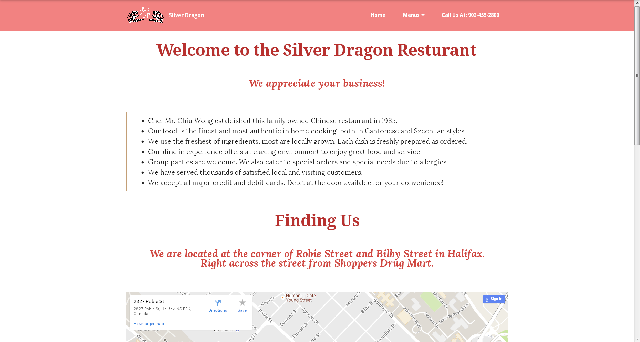
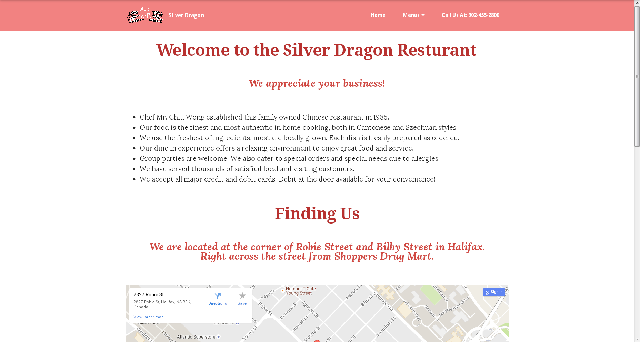
update
update

diff --git a/assets/mobirise/css/mbr-additional.css b/assets/mobirise/css/mbr-additional.css
@@ -44,7 +44,7 @@
 #ext_menu-1 .dropdown-item:hover,
 #ext_menu-1 .link:focus,
 #ext_menu-1 .dropdown-item:focus {
-  color: #c0a375;
+  color: #000000;
 }
 #ext_menu-1 .link[aria-expanded="true"],
 #ext_menu-1 .dropdown-menu {
@@ -71,11 +71,11 @@
 }
 #ext_menu-1 .bg-color.transparent.opened .link:hover,
 #ext_menu-1 .bg-color.transparent.opened .link:focus {
-  color: #c0a375;
+  color: #000000;
 }
 #ext_menu-1 .link[aria-expanded="true"],
 #ext_menu-1 .dropdown-item[aria-expanded="true"] {
-  color: #c0a375!important;
+  color: #000000!important;
 }
 #header3-3 .mbr-section-title,
 #header3-3 .mbr-section-subtitle {
@@ -93,10 +93,11 @@
 #header3-3 B {
   color: #d14841;
 }
-#content2-2 P {
-  font-family: 'Droid Sans', sans-serif;
+#content1-28 P {
+  font-family: 'Lora', serif;
+  font-size: 20px;
 }
-#content2-2 UL {
+#content1-28 UL {
   font-family: 'Lora', serif;
   font-size: 20px;
 }
@@ -196,7 +197,7 @@
 #ext_menu-7 .dropdown-item:hover,
 #ext_menu-7 .link:focus,
 #ext_menu-7 .dropdown-item:focus {
-  color: #c0a375;
+  color: #000000;
 }
 #ext_menu-7 .link[aria-expanded="true"],
 #ext_menu-7 .dropdown-menu {
@@ -223,11 +224,11 @@
 }
 #ext_menu-7 .bg-color.transparent.opened .link:hover,
 #ext_menu-7 .bg-color.transparent.opened .link:focus {
-  color: #c0a375;
+  color: #000000;
 }
 #ext_menu-7 .link[aria-expanded="true"],
 #ext_menu-7 .dropdown-item[aria-expanded="true"] {
-  color: #c0a375!important;
+  color: #000000!important;
 }
 #header3-8 .mbr-section-title,
 #header3-8 .mbr-section-subtitle {
@@ -297,7 +298,7 @@
 #ext_menu-13 .dropdown-item:hover,
 #ext_menu-13 .link:focus,
 #ext_menu-13 .dropdown-item:focus {
-  color: #c0a375;
+  color: #000000;
 }
 #ext_menu-13 .link[aria-expanded="true"],
 #ext_menu-13 .dropdown-menu {
@@ -324,11 +325,11 @@
 }
 #ext_menu-13 .bg-color.transparent.opened .link:hover,
 #ext_menu-13 .bg-color.transparent.opened .link:focus {
-  color: #c0a375;
+  color: #000000;
 }
 #ext_menu-13 .link[aria-expanded="true"],
 #ext_menu-13 .dropdown-item[aria-expanded="true"] {
-  color: #c0a375!important;
+  color: #000000!important;
 }
 #header3-14 .mbr-section-title,
 #header3-14 .mbr-section-subtitle {
@@ -402,7 +403,7 @@
 #ext_menu-13 .dropdown-item:hover,
 #ext_menu-13 .link:focus,
 #ext_menu-13 .dropdown-item:focus {
-  color: #c0a375;
+  color: #000000;
 }
 #ext_menu-13 .link[aria-expanded="true"],
 #ext_menu-13 .dropdown-menu {
@@ -429,11 +430,11 @@
 }
 #ext_menu-13 .bg-color.transparent.opened .link:hover,
 #ext_menu-13 .bg-color.transparent.opened .link:focus {
-  color: #c0a375;
+  color: #000000;
 }
 #ext_menu-13 .link[aria-expanded="true"],
 #ext_menu-13 .dropdown-item[aria-expanded="true"] {
-  color: #c0a375!important;
+  color: #000000!important;
 }
 #header3-14 .mbr-section-title,
 #header3-14 .mbr-section-subtitle {
@@ -507,7 +508,7 @@
 #ext_menu-17 .dropdown-item:hover,
 #ext_menu-17 .link:focus,
 #ext_menu-17 .dropdown-item:focus {
-  color: #c0a375;
+  color: #000000;
 }
 #ext_menu-17 .link[aria-expanded="true"],
 #ext_menu-17 .dropdown-menu {
@@ -534,11 +535,11 @@
 }
 #ext_menu-17 .bg-color.transparent.opened .link:hover,
 #ext_menu-17 .bg-color.transparent.opened .link:focus {
-  color: #c0a375;
+  color: #000000;
 }
 #ext_menu-17 .link[aria-expanded="true"],
 #ext_menu-17 .dropdown-item[aria-expanded="true"] {
-  color: #c0a375!important;
+  color: #000000!important;
 }
 #header3-18 .mbr-section-title,
 #header3-18 .mbr-section-subtitle {
@@ -608,7 +609,7 @@
 #ext_menu-21 .dropdown-item:hover,
 #ext_menu-21 .link:focus,
 #ext_menu-21 .dropdown-item:focus {
-  color: #c0a375;
+  color: #000000;
 }
 #ext_menu-21 .link[aria-expanded="true"],
 #ext_menu-21 .dropdown-menu {
@@ -635,11 +636,11 @@
 }
 #ext_menu-21 .bg-color.transparent.opened .link:hover,
 #ext_menu-21 .bg-color.transparent.opened .link:focus {
-  color: #c0a375;
+  color: #000000;
 }
 #ext_menu-21 .link[aria-expanded="true"],
 #ext_menu-21 .dropdown-item[aria-expanded="true"] {
-  color: #c0a375!important;
+  color: #000000!important;
 }
 #header3-22 .mbr-section-title,
 #header3-22 .mbr-section-subtitle {

diff --git a/index.html b/index.html
@@ -69,11 +69,11 @@
     </div>
 </section>
 
-<section class="mbr-section article mbr-section__container" id="content2-2" style="background-color: rgb(255, 255, 255); padding-top: 0px; padding-bottom: 40px;">
+<section class="mbr-section article mbr-section__container" id="content1-28" style="background-color: rgb(255, 255, 255); padding-top: 0px; padding-bottom: 40px;">
 
     <div class="container">
         <div class="row">
-            <div class="col-xs-12 lead"><blockquote><ul><li><span style="font-style: normal;">Chef Mr. Chiu Wong established this family owned Chinese restaurant in 1985.</span></li><li><span style="font-style: normal;">Our food is the finest and most authentic in home cooking, both in Cantonese and Szechuan styles.</span></li><li><span style="font-style: normal;">We use the freshest of ingredients, most are locally grown. Each dish is freshly prepared as ordered.</span></li><li><span style="font-style: normal;">Our dine in experience offers a relaxing environment to enjoy great food and service.</span></li><li><span style="font-style: normal;">Group parties are welcome. We also cater to special orders and special needs due to allergies.</span></li><li><span style="font-style: normal;">We have served thousands of satisfied local and visiting customers.</span></li><li><span style="font-style: normal;">We accept all major credit and debit cards. Debit at the door available for your convenience!</span></li></ul></blockquote></div>
+            <div class="col-xs-12 lead"><ul><li>Chef Mr. Chiu Wong established this family owned Chinese restaurant in 1985.</li><li>Our food is the finest and most authentic in home cooking, both in Cantonese and Szechuan styles.</li><li>We use the freshest of ingredients, most are locally grown. Each dish is freshly prepared as ordered.</li><li>Our dine in experience offers a relaxing environment to enjoy great food and service.</li><li>Group parties are welcome. We also cater to special orders and special needs due to allergies.</li><li>We have served thousands of satisfied local and visiting customers.</li><li>We accept all major credit and debit cards. Debit at the door available for your convenience!</li></ul></div>
         </div>
     </div>
 
